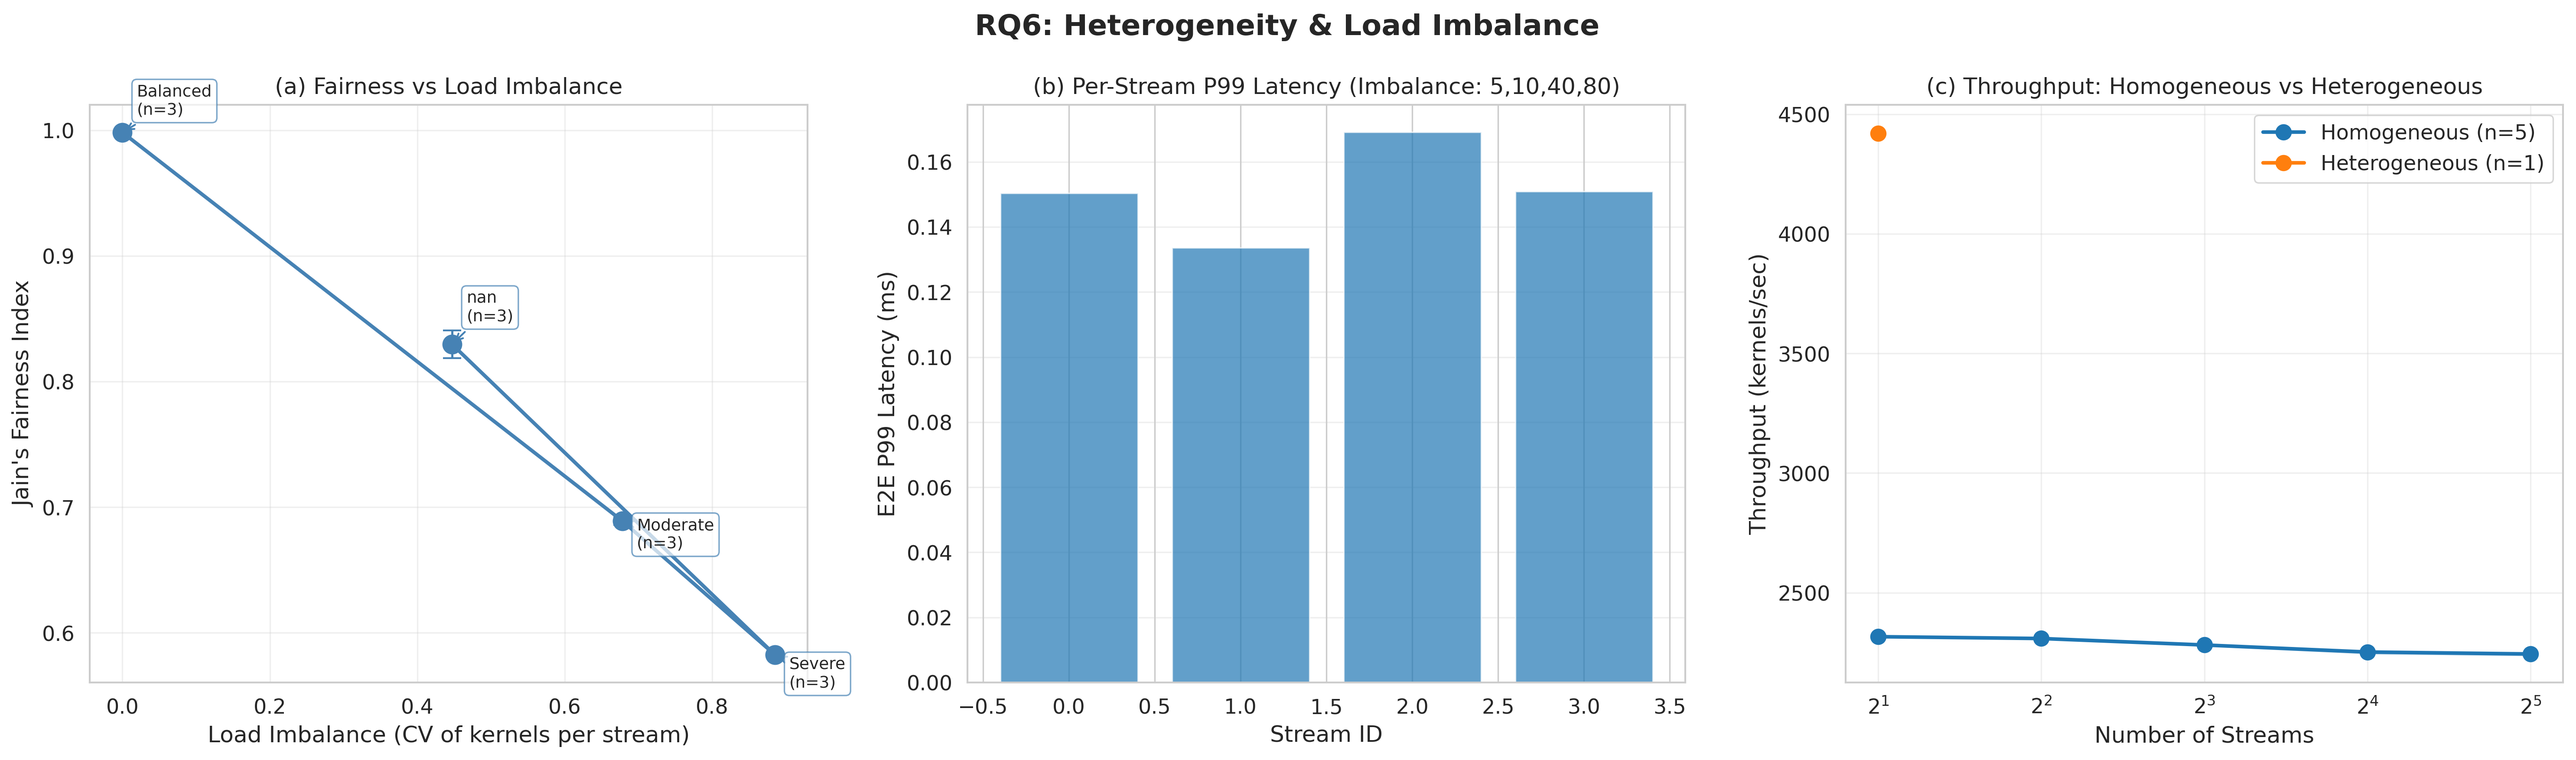
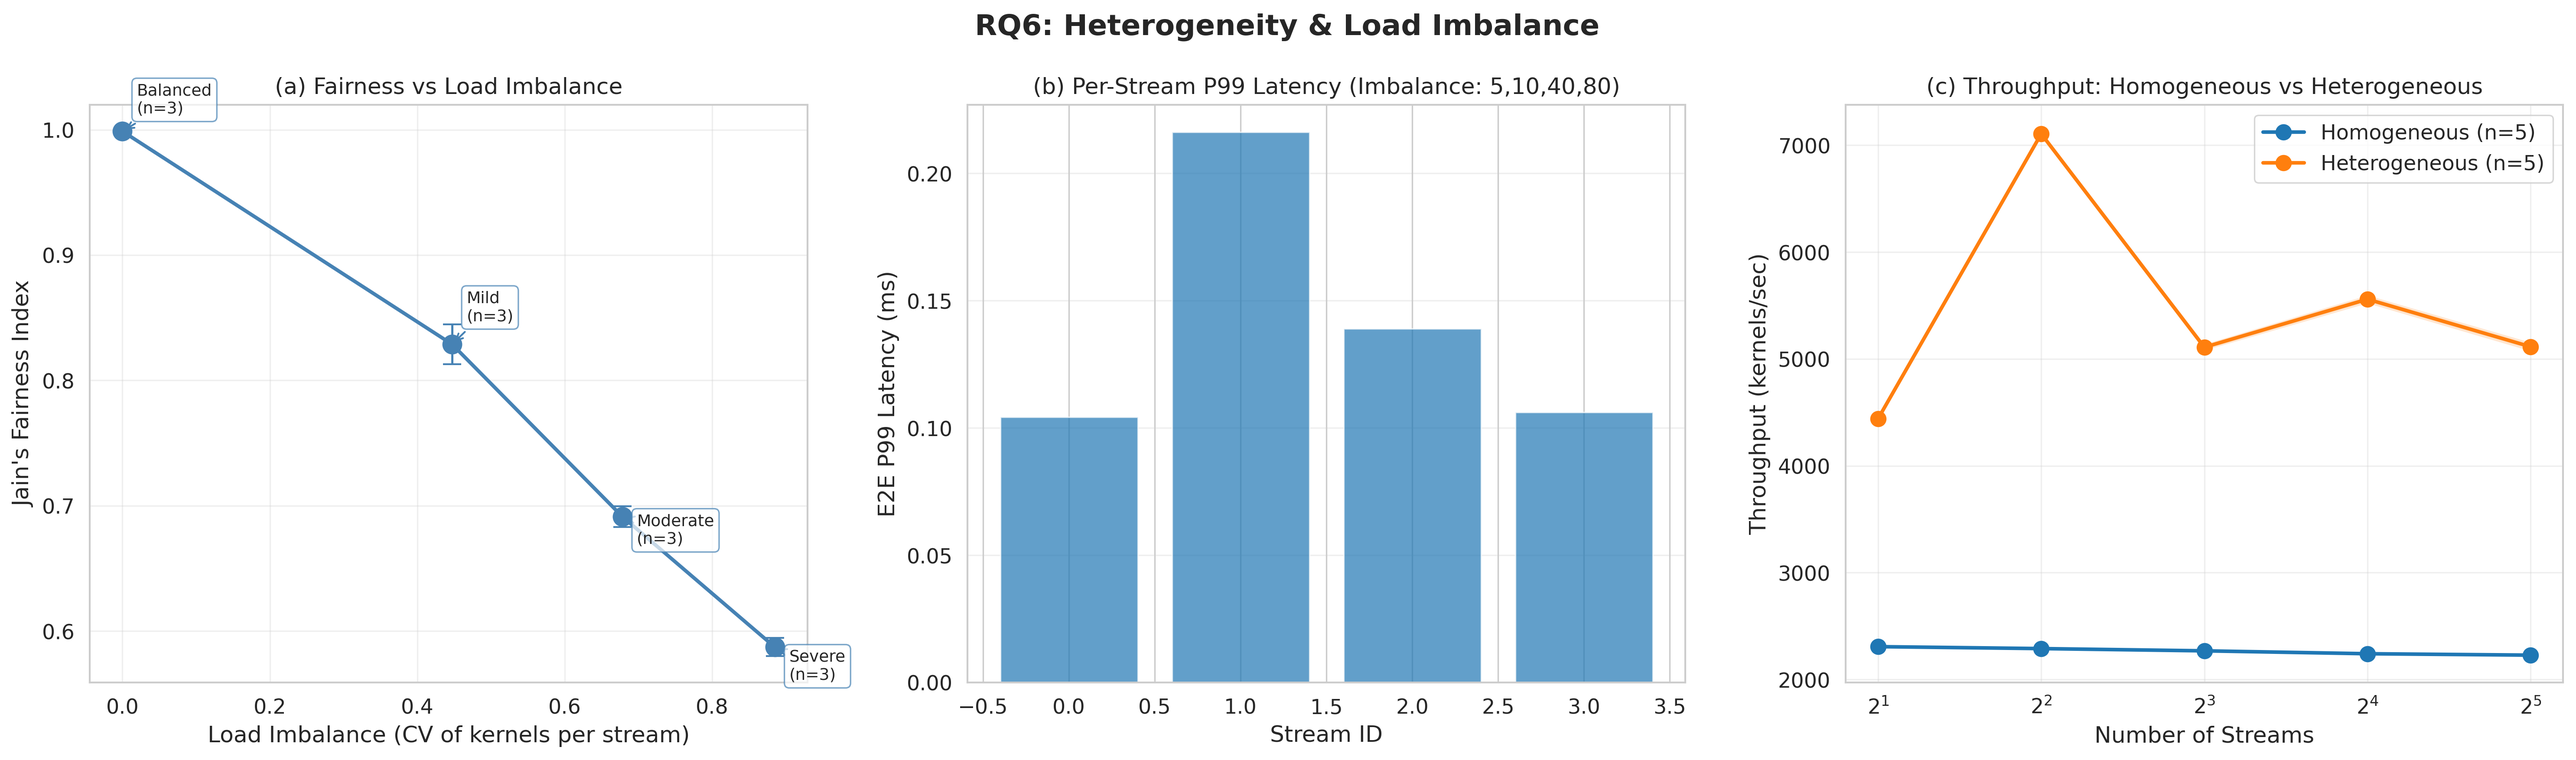
refactor: Enhance RQ6 module to include 'pattern' column in CSV output and improve heterogeneous type handling

diff --git a/scheduler/multi-stream/rq_modules/rq6.py b/scheduler/multi-stream/rq_modules/rq6.py
@@ -119,16 +119,24 @@ class RQ6(RQBase):
                 if csv_output:
                     lines = csv_output.split('\n')
                     if len(csv_lines) == 0:
-                        csv_lines.extend(lines)
+                        # Add 'pattern' column to header
+                        header = lines[0] + ',pattern'
+                        csv_lines.append(header)
+                        data_lines = lines[1:] if len(lines) > 1 else []
                     else:
-                        csv_lines.extend([l for l in lines if not l.startswith('streams,')])
+                        data_lines = [l for l in lines if not l.startswith('streams,')]
+
+                    # Append 'homogeneous' to each data line
+                    for line in data_lines:
+                        if line.strip():
+                            csv_lines.append(line + ',homogeneous')
 
                 time.sleep(0.5)
 
             # Heterogeneous: mix of types
             print(f"    streams={streams}, heterogeneous")
-            # Create heterogeneous pattern: cycle through types
-            types = ['memory', 'compute', 'mixed', 'gemm']
+            # Create heterogeneous pattern: cycle through types (avoid gemm due to CUDA errors)
+            types = ['memory', 'compute', 'mixed']
             hetero_spec = ','.join([types[i % len(types)] for i in range(streams)])
 
             for run_idx in range(self.num_runs):
@@ -136,6 +144,7 @@ class RQ6(RQBase):
                     '--streams', str(streams),
                     '--kernels', '20',
                     '--size', '1048576',
+                    '--type', 'mixed',  # Add explicit type
                     '--heterogeneous', hetero_spec,
                 ]
 
@@ -143,7 +152,12 @@ class RQ6(RQBase):
 
                 if csv_output:
                     lines = csv_output.split('\n')
-                    csv_lines.extend([l for l in lines if not l.startswith('streams,')])
+                    data_lines = [l for l in lines if l.strip() and not l.startswith('streams,')]
+
+                    # Append 'heterogeneous' to each data line
+                    for line in data_lines:
+                        if line.strip():
+                            csv_lines.append(line + ',heterogeneous')
 
                 time.sleep(0.5)
 
@@ -194,7 +208,7 @@ class RQ6(RQBase):
 
             grouped.columns = ['pattern', 'jains_index_mean', 'jains_index_std', 'sample_size', 'imbalance_cv']
 
-            expected_patterns = ['Balanced', 'Moderate', 'Severe']
+            expected_patterns = ['Balanced', 'Mild', 'Moderate', 'Severe']
             grouped['pattern'] = pd.Categorical(grouped['pattern'], categories=expected_patterns, ordered=True)
             grouped = grouped.sort_values('pattern')
 
@@ -249,20 +263,24 @@ class RQ6(RQBase):
         print("  RQ6.3: Homogeneous vs Heterogeneous")
         df = self.load_csv('rq6_3_homo_vs_hetero.csv')
         if df is not None:
-            df['is_hetero'] = df.get('type_detail', '').apply(lambda x: ':' in str(x))
+            # Use the 'pattern' column directly instead of heuristics
+            if 'pattern' not in df.columns:
+                print("    Warning: 'pattern' column not found, using fallback heuristic")
+                df['pattern'] = df.get('type_detail', '').apply(
+                    lambda x: 'heterogeneous' if ':' in str(x) else 'homogeneous')
 
-            grouped = df.groupby(['streams', 'is_hetero']).agg({
+            grouped = df.groupby(['streams', 'pattern']).agg({
                 'throughput': ['mean', 'std', 'count'],
                 'concurrent_rate': ['mean', 'std']
             }).reset_index()
 
-            grouped.columns = ['streams', 'is_hetero', 'throughput_mean', 'throughput_std', 'sample_size',
+            grouped.columns = ['streams', 'pattern', 'throughput_mean', 'throughput_std', 'sample_size',
                                'concurrent_rate_mean', 'concurrent_rate_std']
 
-            for is_hetero in [False, True]:
-                data = grouped[grouped['is_hetero'] == is_hetero]
+            for pattern in ['homogeneous', 'heterogeneous']:
+                data = grouped[grouped['pattern'] == pattern]
                 if len(data) > 0:
-                    label = f'Heterogeneous (n={len(data)})' if is_hetero else f'Homogeneous (n={len(data)})'
+                    label = f'Heterogeneous (n={len(data)})' if pattern == 'heterogeneous' else f'Homogeneous (n={len(data)})'
                     ax3.plot(data['streams'], data['throughput_mean'],
                              marker='o', label=label, linewidth=2, markersize=8)
                     ax3.fill_between(data['streams'],

diff --git a/scheduler/multi-stream/RESEARCH_QUESTIONS.zh.md b/scheduler/multi-stream/RESEARCH_QUESTIONS.zh.md
@@ -643,39 +643,111 @@ OSDI 级 story：
 
 ## RQ9：多进程 / 多租户（Multi-Process vs Single-Process）
 
-虽然你 C++ 里还没显式 `tenant_id` 字段，但 **raw CSV 里有 host 时间戳**，所以你可以通过：
+**问题**：在相同总 stream 数和总工作量下，将并发 stream 分配到不同数量的进程时，CUDA scheduler 在 throughput、tenant fairness、tail latency 上的行为差异？
 
-* 各进程单独 `--csv-output run_procX.csv`；
-* offline merge 时给每个文件加 `tenant_id=X`；
-* 用 `host_launch_us` 对齐时间线。
+**设计核心**：
 
-可以做一些 multi‑process sub‑RQ（如果你真想对齐 REEF / Gandiva 那类工作）：
+* 固定总 stream 数为 32，总工作量为 960 kernels（每 stream 30 个）
+* 变化进程粒度：1×32, 4×8, 8×4, 16×2
+* 每个进程视为一个 **tenant**，测量 per-tenant 指标
+* 使用真实并发执行（`subprocess.Popen`）而非串行
 
-### Sub‑RQ9.1：单进程多 stream vs 多进程少 stream（公平性&并发）
+---
 
-**问题**：相同总 stream 数下，single‑process 多 stream 和 multi‑process（每进程少量 stream）在 concurrency、公平性上的差异？
+### Sub‑RQ9.1：Throughput、Fairness、Latency vs Process Configuration
+
+**问题**：在不同进程粒度下，整体吞吐、tenant 公平性、worst-case tail latency 如何变化？
+
 **配置**：
 
-* Mode A：1 进程，32 streams
-* Mode B：4 进程，每个 8 streams
-* Mode C：8 进程，每个 4 streams
-* 每进程同一 kernel_type / workload_size
+| 配置 | 进程数 | 每进程 streams | 总 streams | 每 stream kernels | Kernel size | Type |
+|------|--------|----------------|------------|-------------------|-------------|------|
+| 1×32 | 1      | 32             | 32         | 30                | 1M          | mixed |
+| 4×8  | 4      | 8              | 32         | 30                | 1M          | mixed |
+| 8×4  | 8      | 4              | 32         | 30                | 1M          | mixed |
+| 16×2 | 16     | 2              | 32         | 30                | 1M          | mixed |
 
-**图**（offline 聚合）：
+**执行方式**：
 
-* 柱状图
-* X：模式（A/B/C），也可扩展为 Mode D: 16 进程 × 2 streams
-* Y：
+* **单进程**（1×32）：使用 C++ aggregated CSV 输出
+* **多进程**（4×8, 8×4, 16×2）：
+  * 并发启动所有进程（`subprocess.Popen`）
+  * 每个进程写独立的 raw CSV（`--csv-output`, `--no-header`）
+  * 等待所有进程完成
+  * 如果任何进程失败，丢弃整个 run
 
-  * either `throughput`（global）
-  * or per‑tenant Jain fairness（你自己在 Python 里算 per‑tenant GPU time，然后 Jain index）
+**测量方法（多进程）**：
 
-> **实现注意**：
-> - 多进程需真正并发（`subprocess.Popen`），而非串行调用
-> - Jain 计算时需用 `global_stream_id = stream_id + proc_id * streams_per_process`
-> - 时间窗口用 `end_time_ms.max()` 而非 `start_time_ms.max()`
+1. **Global Stream ID 分配**：
+   * 每个进程的 stream_id 加上 `proc_id * streams_per_process` 偏移
+   * 保证每个进程的 stream 在全局唯一
 
-这就可以讲一段："CUDA scheduler 在 multi‑process 情况下是否更/更不公平"。
+2. **Throughput**（全局）：
+   * 全局时间窗口：从所有 kernel 的 `min(start_time_ms)` 到 `max(end_time_ms)`
+   * `throughput = total_kernels / wall_time_sec`
+
+3. **Global P99 Latency**（全局）：
+   * 所有 kernel 的 `e2e_latency_ms` 的第 99 百分位
+
+4. **Per-Process (Tenant) Fairness**：
+   * 计算每个进程消耗的总 GPU 时间（sum of `duration_ms`）
+   * 基于 GPU 时间计算 Jain's fairness index
+   * `jains_index = (sum x)^2 / (n * sum x^2)`
+
+5. **Worst-Tenant P99 Latency**：
+   * 计算每个进程（tenant）内所有 kernel 的 P99
+   * 取所有 tenant P99 的最大值（worst-case）
+   * 展示最受影响 tenant 的 SLO violation
+
+6. **GPU Utilization**：
+   * 使用 sweep-line 算法计算 GPU 有 kernel 运行的时间占比
+   * 基于所有 kernel 的 start/end 事件
+
+**测量方法（单进程）**：
+
+* 使用 C++ 的 aggregated CSV 输出
+* `per_proc_p99` = `e2e_p99`（因为只有 1 个进程）
+* `jains_index` 为 per-stream fairness（C++ 计算）
+  * 对于 1 个 tenant 的场景，tenant fairness 退化为 trivial 1.0
+  * 这里的 Jain 值主要作为 sanity check
+
+**图**（2×2 subplots）：
+
+* **(a) Throughput vs Configuration**：
+  * X 轴：配置（1×32, 4×8, 8×4, 16×2）
+  * Y 轴：Throughput (kernels/sec)
+  * 柱状图 + error bar (std across runs)
+
+* **(b) Per-Process Fairness vs Configuration**：
+  * X 轴：配置
+  * Y 轴：Jain's Fairness Index (per-process)
+  * 柱状图 + error bar
+  * Y 范围：[0, 1.1]
+
+* **(c) Global P99 Latency vs Configuration**：
+  * X 轴：配置
+  * Y 轴：Global E2E P99 Latency (ms)
+  * 柱状图 + error bar
+
+* **(d) Worst-Tenant P99 vs Configuration**：
+  * X 轴：配置
+  * Y 轴：Worst-Tenant P99 Latency (ms)
+  * 柱状图 + error bar
+  * **关键**：展示 SLO violation for the most affected tenant
+
+**指标语义**：
+
+* **Throughput**：整体系统吞吐（kernels/sec）
+* **Per-Process Fairness**：各 tenant 获得的 GPU 时间是否均衡（Jain index）
+* **Global P99**：从所有 kernel 视角看的 tail latency
+* **Worst-Tenant P99**：从最差 tenant 视角看的 tail latency（SLO violation）
+
+**CSV 输出**：
+
+* 文件：`results/rq9_multiprocess.csv`
+* 额外字段：`per_proc_p99`（追加到最后一列）
+* 单进程行：使用 C++ aggregated 格式 + `per_proc_p99`
+* 多进程行：Python 计算的 metrics + `per_proc_p99`
 
 ---
 
